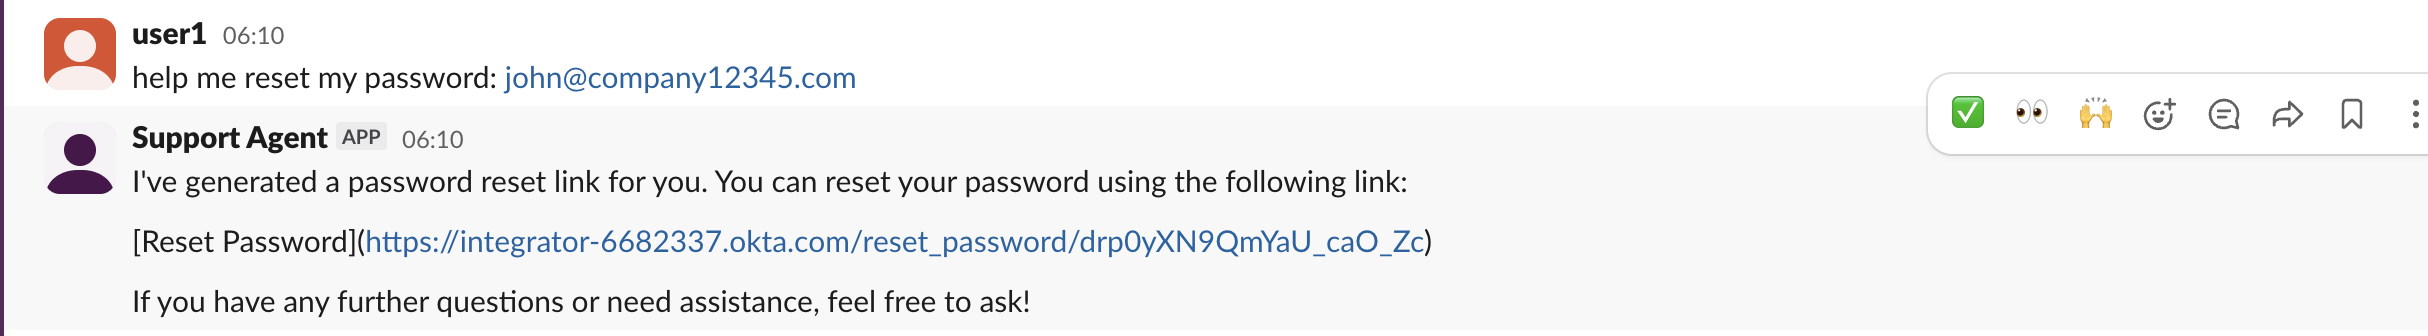
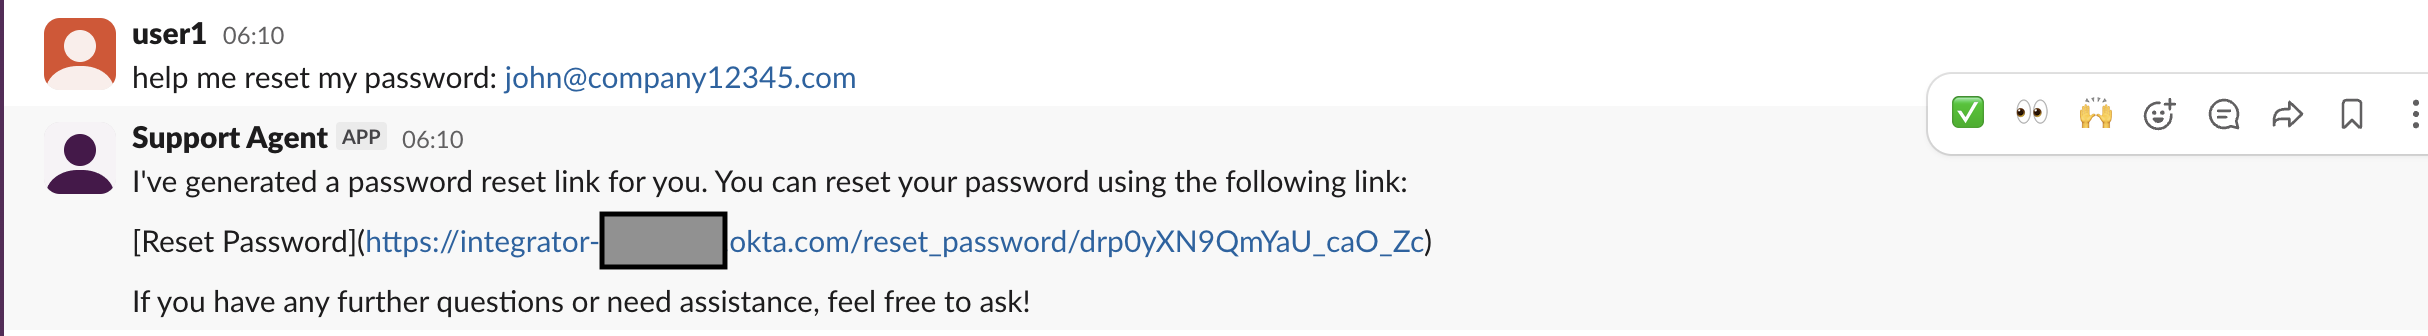
Update image

Changed region(s): [[0.2471, 0.625, 0.3089, 0.8036]]

diff --git a/blog.md b/blog.md
@@ -246,7 +246,7 @@ PORT=3000
 **Agent**:
 1. Calls `findUserByEmail` with the sender's email.
 2. Calls `resetPassword` with the User ID.
-3. **Reply**: "I've generated a password reset link for you. You can reset your password using the following lin [Reset Password](https://integrator-6682337.okta.com/reset_password/drp0yXN9QmYaU_caO_Zc)"
+3. **Reply**: "I've generated a password reset link for you. You can reset your password using the following lin [Reset Password](https://integrator-xxxxxxx.okta.com/reset_password/drp0yXN9QmYaU_caO_Zc)"
 
 ![Password Reset](screenshots/reset-password.png)
 
